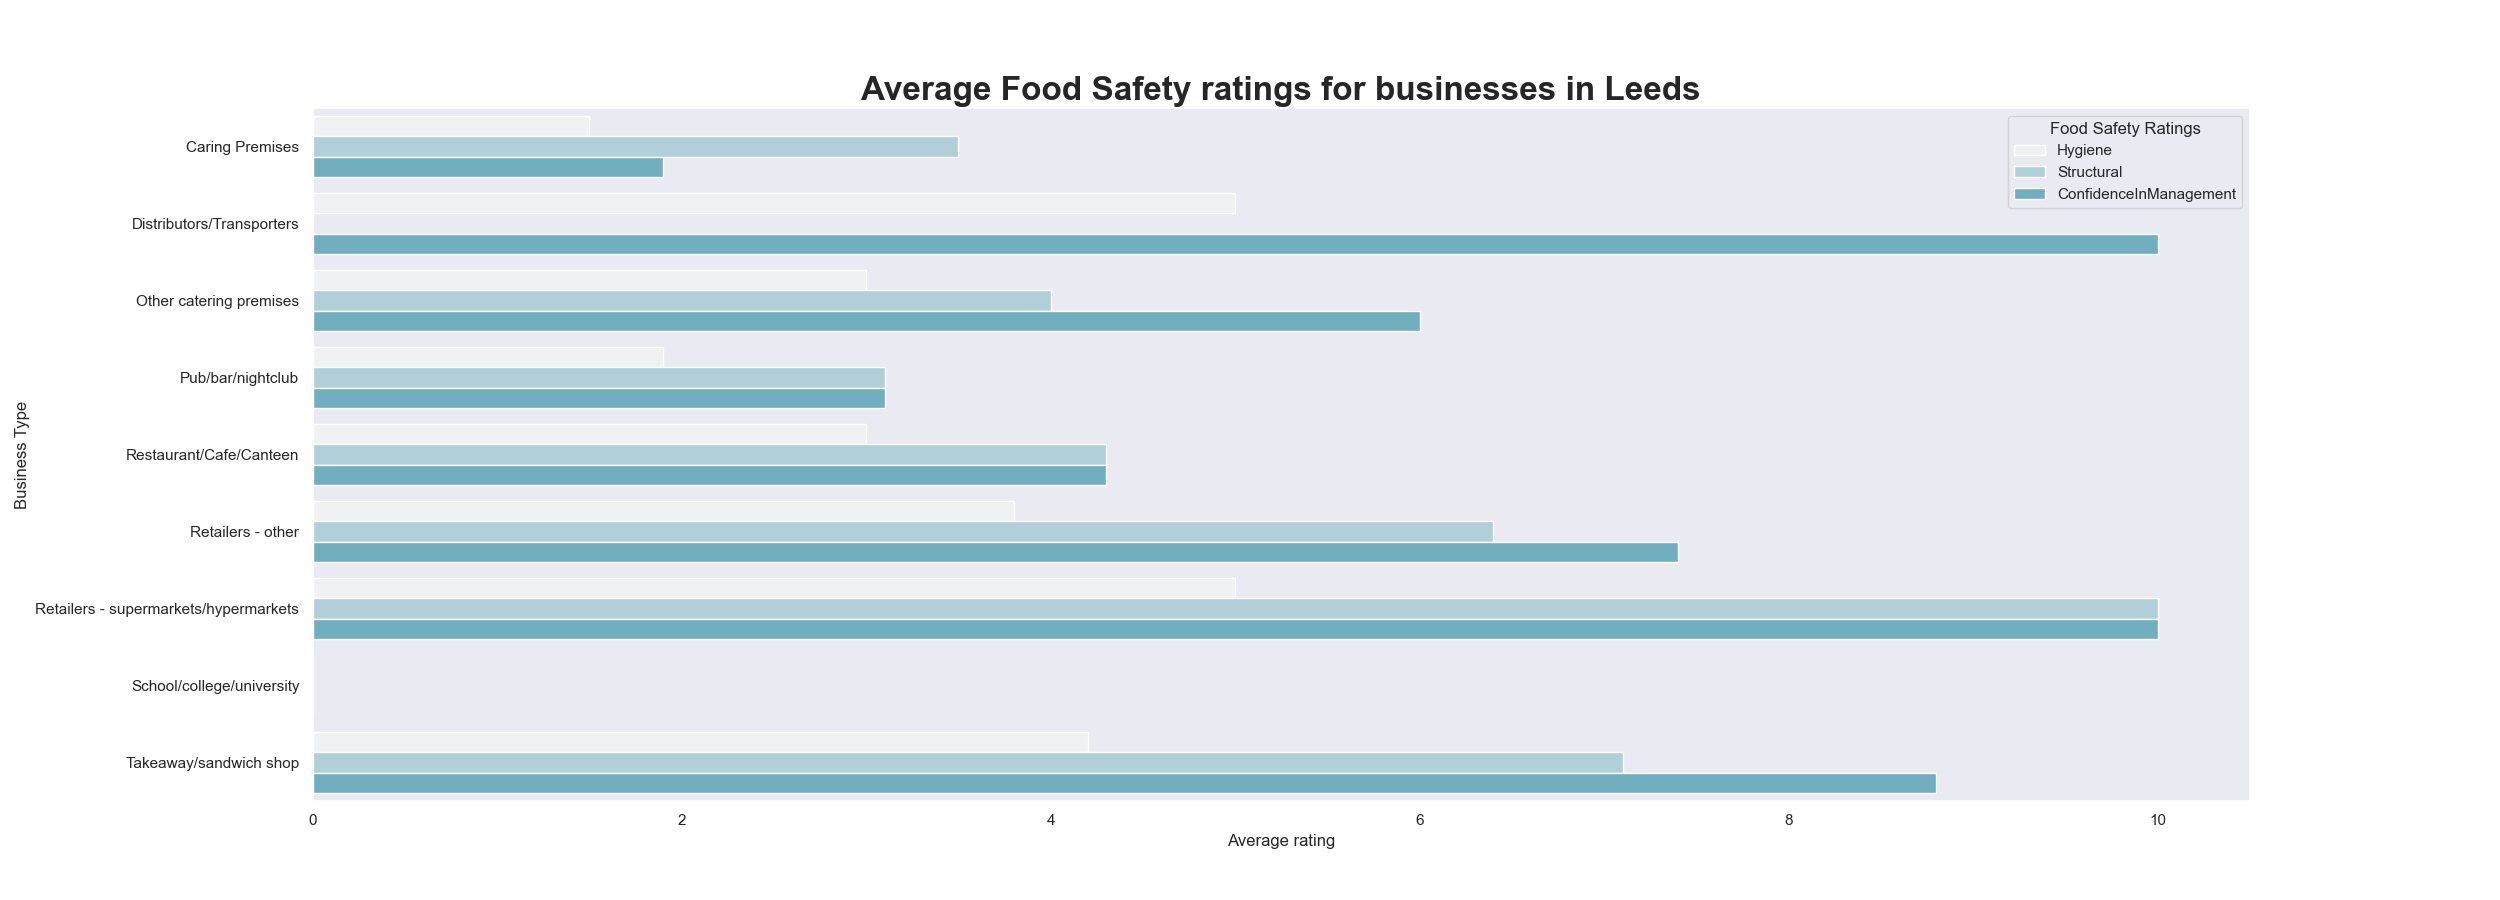
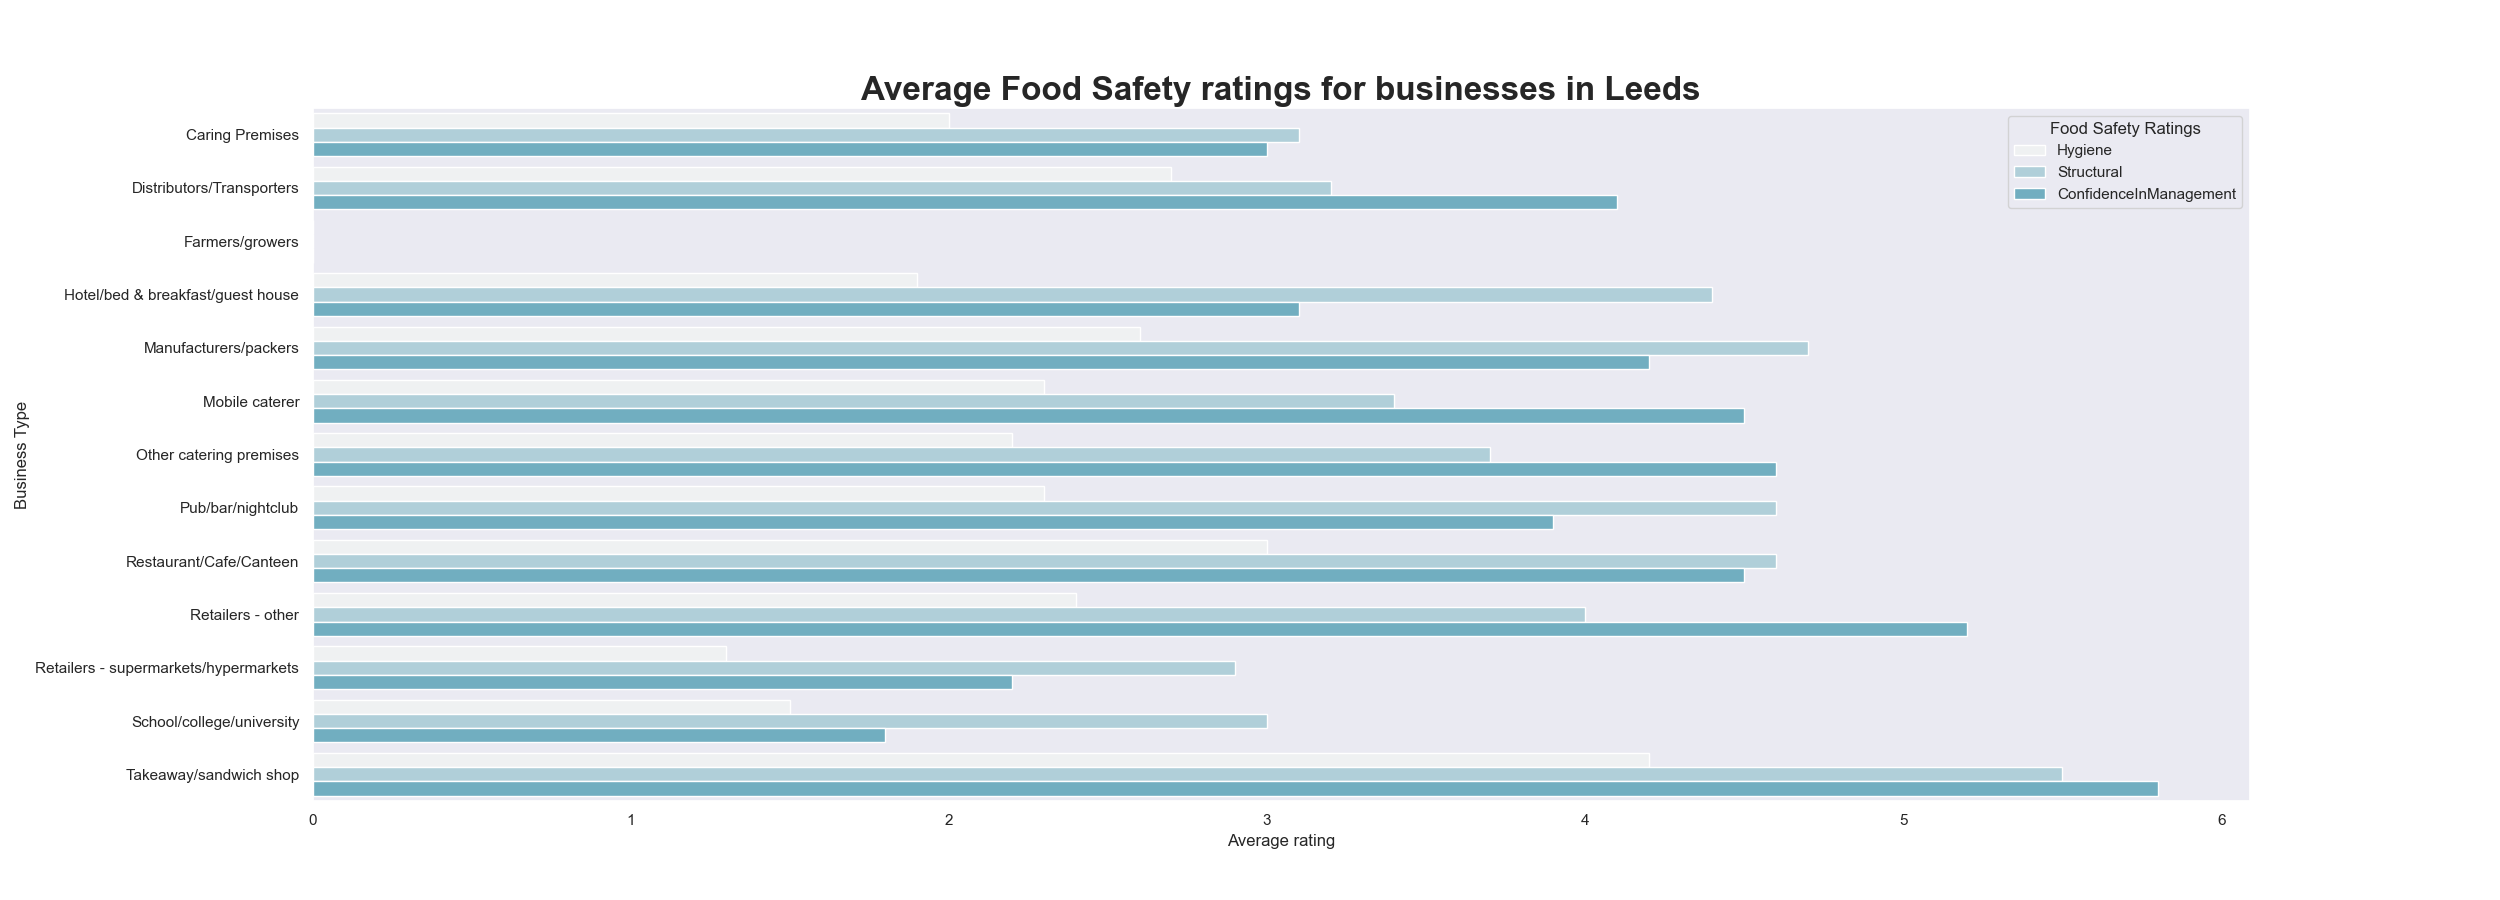
updated figures to include all leeds records

Changed region(s): [[0.0, 0.3111, 0.8736, 0.9022], [0.0624, 0.1244, 0.8736, 0.28]]

diff --git a/fsa_ratings.py b/fsa_ratings.py
@@ -5,21 +5,25 @@ import matplotlib.pyplot as plt
 import requests
 import os
 
-url = "https://ratings.food.gov.uk/search/%5E/leeds/1/100/json"
+#get data from API and create DataFrame
+url = "https://ratings.food.gov.uk/search/%5E/leeds/1/10000/json"
 r = requests.get(url)
 df = pd.DataFrame.from_dict(r.json()["FHRSEstablishment"]["EstablishmentCollection"]['EstablishmentDetail'])
 
-df = df[(df["RatingValue"] != "AwaitingInspection") & (df["RatingValue"] != "Exempt")]
+#clean DataFrame by removing businesses that have not been given a rating and converting the Scores column from a Dictionary into 3 separate columns
+df = df[(df["RatingValue"] != "AwaitingInspection") & (df["RatingValue"] != "Exempt") & (df["RatingValue"] != "Pass") & (df["LocalAuthorityName"] == "Leeds")]
 df = pd.concat([df.drop("Scores", axis=1), df["Scores"].apply(pd.Series)], axis=1)
 
+#turn the ratings columns to integers
 df["Hygiene"] = pd.to_numeric(df["Hygiene"])
 df["Structural"] = pd.to_numeric(df["Structural"])
 df["ConfidenceInManagement"] = pd.to_numeric(df["ConfidenceInManagement"])
 
+#create a second dataframe to be used specifically for the bar chart which aggregates and displays averages for each of the ratings. convert this to an easy to use format for seaborn
 bars = round(df.groupby("BusinessType", as_index=False)[["BusinessType","Hygiene","Structural","ConfidenceInManagement"]].mean(),1)
 bars = bars.melt("BusinessType", var_name="ratings", value_name="values")
 
-
+#first chart plotting average food safety ratings by business type
 sns.set(context="notebook")
 sns.set_style("dark")
 sns.barplot(data=bars, y="BusinessType", x="values", hue="ratings", color="c").set(ylabel = "Business Type",
@@ -29,6 +33,8 @@ plt.legend(title="Food Safety Ratings")
 plt.savefig("Average Food Safety Ratings.png")
 plt.clf()
 
+
+#second group of charts counting scores across the ratings categories 
 ratings = ["Hygiene","Structural","ConfidenceInManagement"]
 
 for rating in ratings:
